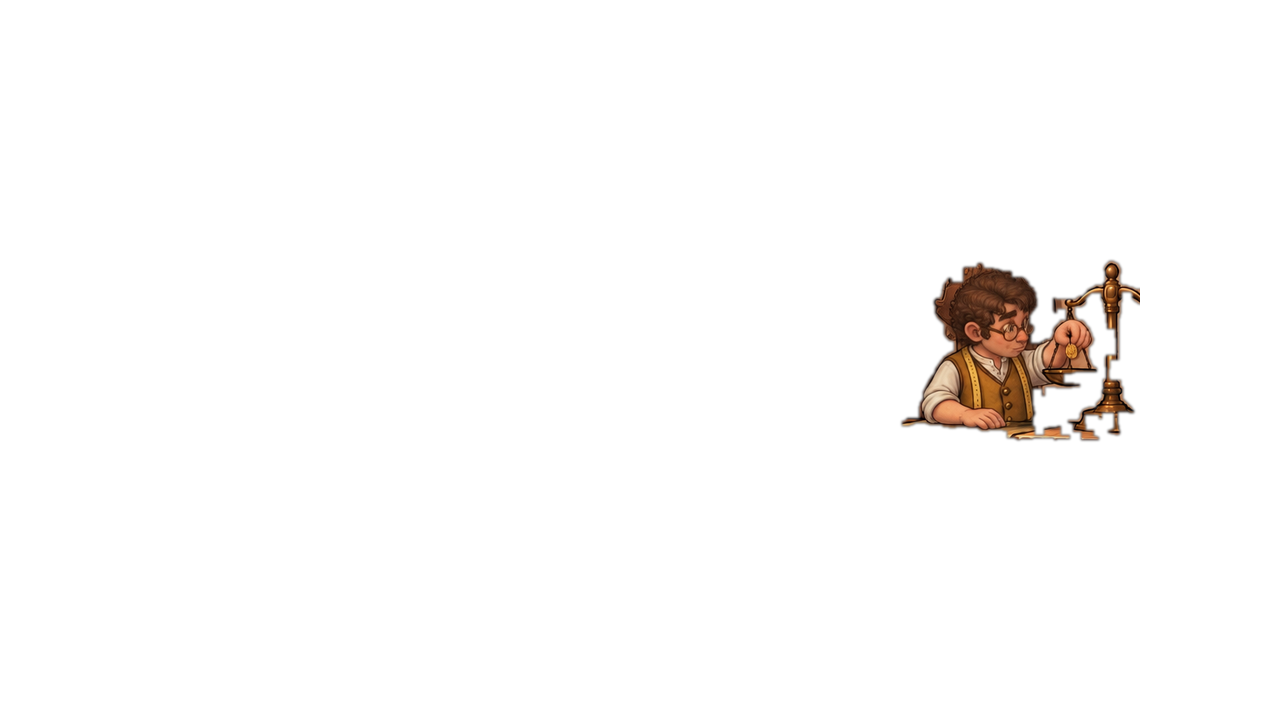
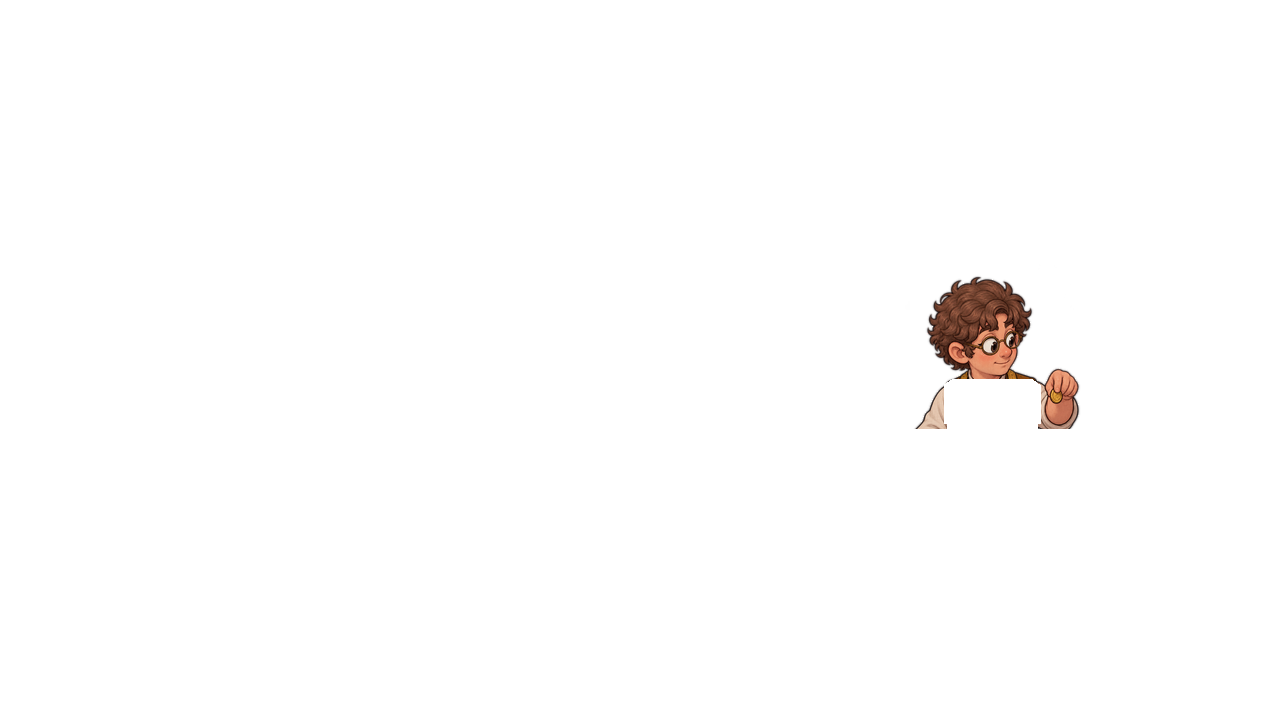
In-scene NPCs: draw with the room first, then redraw large to match
The first in-scene pictures (AI draws the character into the background)
had natural size and lighting but small, mushy faces. Drawing the
character alone at full size (SS style) gave sharp faces but awkward
size and a loud outline. Now both are combined:

1. the scene drawn with the character sets size, pose and lighting
2. that scene is the reference for a large standalone redraw of the
   same character in the same pose (sharp face)
3. art_pipeline scene fits (2) onto the silhouette in (1) by IoU over
   the head and torso, transfers (1)'s colours, adds no outline
4. furniture: cut at the BACK edge of the counter/table top, `show`
   keeps hands resting on it, `hide` keeps objects on it in front

Ruby sits on the hall bench again and Pip on his barrel; the shop Pip
redraw got his spectacles back. Click shapes come from the silhouette.

Claude-Session: https://claude.ai/code/session_01WFgBYsqnPjwxzhWx9BLhU6

Changed region(s): [[0.6875, 0.3667, 0.9062, 0.6111]]

diff --git a/mosshill/tools/art_pipeline.py b/mosshill/tools/art_pipeline.py
@@ -7,7 +7,7 @@
     표정    <이름>_<표정>.png     같은 그림에서 표정만 바꾼 것
     적      <종류>.png            투명 배경
     아이템  items.png             4x4 칸
-    장소 인물 scene_<장소>_<인물>_<busy|look>.png  배경 원본에 인물을 그려 넣은 것 (하던 일 / 앞을 봄)
+    장소 인물 pose_<장소>_<인물>_<busy|look>.png  인물만 단독으로 크게 (하던 일 / 앞을 봄)
 
     python3 tools/art_pipeline.py RAW all        # 전부
     python3 tools/art_pipeline.py RAW bg         # 배경만 (bg, sprite, face, enemy, icon, object, scene)
@@ -274,68 +274,153 @@ def do_object(raw):
             print("object %-14s %-8s rect=%s" % (loc, oid, (box[0], box[1], box[2] - box[0], box[3] - box[1])))
 
 
-## ---------------------------------------------------------------- 장소 안 인물
-## tools/art_scenes.json: {장소: {인물: {"box": [x0,y0,x1,y1], "shape": 다각형, ...}}}
-## RAW/scene_<장소>_<인물>_<busy|look>.png = 배경 원본에 인물을 그려 넣은 그림 (같은 구도) 두 장.
-##   busy: 하던 일을 보고 있음 / look: 카이가 들어와서 앞(카메라)을 봄 — 들어갈 때 busy → look 으로 바뀐다.
-## 원래 배경과 다른 곳 = 인물 → 화면 크기(1280x720) 투명 PNG 로 저장 (위치 정보가 따로 필요 없다).
-## 두 장은 '둘 중 하나라도 다른 곳'(합친 모양)으로 똑같이 오린다 → 겹쳐서 서서히 바꿔도 비치지 않는다.
-## 식탁·계산대 뒤에 선 인물은 앞의 가구가 배경에 그대로 있으니 가려지는 것도 저절로 맞는다.
+## ---------------------------------------------------------------- 장소 안 인물 (두 방식을 합친 것)
+## 1) AI 에게 배경에 인물을 함께 그리게 하면 크기·비율·자세·조명이 자연스럽지만, 인물이 몇십 px 로 작게 그려져
+##    얼굴·인상이 뭉개진다.
+## 2) 원작(SS)처럼 인물만 단독으로 크게 그려 얹으면 얼굴은 또렷하지만, 크기·자세를 따로 정하면 어색하다.
+## → 먼저 1) 로 장면을 그리고, 그 장면을 견본으로 '같은 자세·비율의 인물만' 크게 다시 그린다(2).
+##   그 큰 그림을 1) 의 인물 실루엣에 자동으로 겹쳐 맞추고(배율·위치), 1) 의 인물 색감을 옮겨 얹는다.
+##   외곽선은 두르지 않는다 (원작처럼 굵게 두르면 튀었다).
+##
+## RAW/<장소>.png                    배경 원본 (인물 없음)
+## RAW/scene_<장소>_<인물>_busy.png  1) 배경에 인물을 함께 그린 그림 — 크기·위치·색감의 기준
+## RAW/pose_<장소>_<인물>_busy.png   2) 1) 을 견본으로 인물만 크게 (1024x1536 투명) — 하던 일을 보는 모습
+## RAW/pose_<장소>_<인물>_look.png   2) 에서 눈·입만 바꿔 앞(카메라)을 보는 모습
+## tools/art_scenes.json 의 place:
+##   ref       1) 에서 인물이 있는 곳 다각형 (화면 1280x720 좌표) — 이 안에서 배경과 다른 곳 = 인물 실루엣
+##   cut       이 y 아래는 가구(바·식탁·계산대) 뒤라 안 보임 (없으면 null) — 가구 윗면의 '뒤쪽' 끝.
+##             앞쪽 모서리에서 자르면 몸이 가구 윗면을 덮어 '가구 위에 올려 놓은' 것처럼 보인다
+##   show      cut 아래라도 보이는 곳 다각형 목록 (가구 위에 올린 손·도구) (선택)
+##   hide      앞의 물건에 가려지는 곳 다각형 목록 (선택)
+##   shadow    true 면 발밑 그림자 (바닥에 놓인 전신)
+##   fit_cut   맞출 때 비교를 멈출 y (1) 그림에서 가구에 가려진 선이 cut 과 다를 때, 기본은 cut)
+##   fit_upper 실루엣 위쪽 몇 %로 맞출지 (기본 0.6). 단독 그림의 머리 비율이 1) 과 다르면 줄여서 머리 위주로 맞춘다
+## 결과: scene_<장소>_<인물>_<busy|look>_<day|night>.png (화면 크기, 인물만 불투명)
+##       mask_scene_<장소>_<인물>.png (클릭 모양 = 인물 실루엣)
 SCENE_STATES = ("busy", "look")
+COLOR_AMOUNT = 0.6
 
 
-def largest_blob(m):
-    """참/거짓 배열에서 가장 큰 덩어리만 남긴다 (4방향 연결)"""
-    h, w = m.shape
-    seen = np.zeros_like(m, dtype=bool)
-    best = []
-    for y0, x0 in zip(*np.nonzero(m)):
-        if seen[y0, x0]:
-            continue
-        stack, blob = [(y0, x0)], []
-        seen[y0, x0] = True
-        while stack:
-            y, x = stack.pop()
-            blob.append((y, x))
-            for ny, nx in ((y + 1, x), (y - 1, x), (y, x + 1), (y, x - 1)):
-                if 0 <= ny < h and 0 <= nx < w and m[ny, nx] and not seen[ny, nx]:
-                    seen[ny, nx] = True
-                    stack.append((ny, nx))
-        if len(blob) > len(best):
-            best = blob
-    out = np.zeros_like(m, dtype=bool)
-    if best:
-        ys, xs = zip(*best)
-        out[list(ys), list(xs)] = True
+def screen_of(path):
+    """AI 원본(1536x1024) → 화면(1280x720), 배경과 같은 자르기"""
+    return Image.open(path).convert("RGB").crop((0, 80, 1536, 944)).resize(SCREEN, Image.LANCZOS)
+
+
+def ref_silhouette(bg, sc, poly):
+    """1) 그림에서 인물 실루엣: 다각형(조금 넓힘) 안에서 배경과 확실히 다른 곳"""
+    area = Image.new("L", SCREEN, 0)
+    ImageDraw.Draw(area).polygon([tuple(p) for p in poly], fill=255)
+    area = np.asarray(area.filter(ImageFilter.MaxFilter(9))) > 0
+    d = np.asarray(ImageChops.difference(bg, sc).filter(ImageFilter.GaussianBlur(1.5))).max(axis=2) > 30
+    m = Image.fromarray(((d & area) * 255).astype(np.uint8))
+    m = m.filter(ImageFilter.MinFilter(3)).filter(ImageFilter.MaxFilter(3))     # 잡티
+    m = m.filter(ImageFilter.MaxFilter(7)).filter(ImageFilter.MinFilter(7))     # 틈
+    return np.asarray(m) > 0
+
+
+def fit_to(sil, char, cut, upper=0.6):
+    """큰 인물 그림을 실루엣 sil 에 겹쳐 맞추는 배율 k, 위치 (ox, oy) — 겹치는 비율(IoU)이 가장 큰 값.
+    크기 느낌은 머리·상체가 정하므로 실루엣 위쪽 upper 비율만 비교한다 (팔·소품은 그림마다 조금씩 다르다).
+    cut 아래는 1) 에서 가구에 가려졌으므로 비교하지 않는다."""
+    A = char.getchannel("A")
+    x0, y0, x1, y1 = A.point(lambda v: 255 if v > 16 else 0).getbbox()
+    ys, xs = np.nonzero(sil)
+    sy0, sy1, sx0, sx1 = ys.min(), ys.max(), xs.min(), xs.max()
+    limit = min(cut if cut is not None else SCREEN[1], int(sy0 + (sy1 - sy0) * upper))
+    k0 = (sy1 - sy0) / (y1 - y0) if cut is None else (sx1 - sx0) / (x1 - x0)
+    pad = 120
+    wx0, wy0 = max(0, sx0 - pad), max(0, sy0 - pad)                 # 비교는 실루엣 주변 창 안에서만
+    wx1, wy1 = min(SCREEN[0], sx1 + pad), limit
+    ref_full = sil[wy0:wy1, wx0:wx1]
+    cache = {}
+
+    def iou(k, ox, oy, step):
+        key = (round(k, 5), step)
+        if key not in cache:
+            cache[key] = np.asarray(A.resize((max(1, round(A.width * k / step)), max(1, round(A.height * k / step))))) > 128
+        small = cache[key]
+        ref = ref_full[::step, ::step]
+        canvas = np.zeros(ref.shape, bool)
+        px, py = round((ox - wx0) / step), round((oy - wy0) / step)
+        h, w = small.shape
+        cx0, cy0, cx1, cy1 = max(0, px), max(0, py), min(canvas.shape[1], px + w), min(canvas.shape[0], py + h)
+        if cx1 <= cx0 or cy1 <= cy0:
+            return 0
+        canvas[cy0:cy1, cx0:cx1] = small[cy0 - py:cy1 - py, cx0 - px:cx1 - px]
+        return (canvas & ref).sum() / max(1, (canvas | ref).sum())
+
+    best = (0, k0, 0, 0)
+    for k in np.arange(0.7, 1.31, 0.02) * k0:
+        ox0 = (sx0 + sx1) / 2 - (x0 + x1) / 2 * k
+        oy0 = sy0 - y0 * k
+        for dy in range(-40, 41, 4):
+            for dx in range(-60, 61, 4):
+                v = iou(k, ox0 + dx, oy0 + dy, 2)
+                if v > best[0]:
+                    best = (v, k, ox0 + dx, oy0 + dy)
+    _, kb, oxb, oyb = best
+    for k in (kb * 0.99, kb, kb * 1.01):
+        for dy in range(-3, 4):
+            for dx in range(-3, 4):
+                v = iou(k, oxb + dx, oyb + dy, 1)
+                if v > best[0]:
+                    best = (v, k, oxb + dx, oyb + dy)
+    return best
+
+
+def look_from_busy(busy, look):
+    """look 그림에서 머리 쪽(테두리 상자 위 45%)의 달라진 곳만 busy 에 합친다 → 바뀔 때 몸이 흔들리지 않는다"""
+    x0, y0, x1, y1 = busy.getchannel("A").point(lambda v: 255 if v > 16 else 0).getbbox()
+    head = (x0, y0, x1, y0 + int((y1 - y0) * 0.45))
+    d, s, dx, dy = register(busy, look, (head[0], head[1], head[2], head[3] + 60))
+    look = place(look, s, dx, dy)
+    area = Image.new("L", busy.size, 0)
+    ImageDraw.Draw(area).rectangle(head, fill=255)
+    area = area.filter(ImageFilter.GaussianBlur(10))
+    diff = ImageChops.difference(gray_on_white(busy), gray_on_white(look)).filter(ImageFilter.GaussianBlur(2))
+    mask = ImageChops.multiply(diff.point(lambda v: 255 if v > 14 else 0).filter(ImageFilter.MaxFilter(15)), area)
+    piece = look.copy()
+    piece.putalpha(ImageChops.multiply(mask.filter(ImageFilter.GaussianBlur(5)), look.getchannel("A")))
+    out = busy.copy()
+    out.alpha_composite(piece)
     return out
 
 
-def match_colors(sc, bg, box):
-    """AI 가 인물을 그려 넣으면서 방 전체 색조를 살짝 바꾸는 일이 있다 (바닥에 네모난 경계가 생김).
-    인물 범위(box) 바깥은 원래 배경과 같아야 하므로, 그 부분으로 색 보정식(채널별 a*x+b)을 구해 그림 전체에 적용한다."""
-    a = np.asarray(sc, np.float32)
-    b = np.asarray(bg, np.float32)
-    x0, y0, x1, y1 = box
-    outside = np.ones(a.shape[:2], bool)
-    outside[max(0, y0 - 30):y1 + 30, max(0, x0 - 30):x1 + 30] = False
-    out = a.copy()
+def place_char(char, k, ox, oy, pl, color):
+    """큰 인물 그림 → 화면 크기 레이어 (줄이기, 방 색감, 발밑 그림자, 가려지는 곳 잘라내기)"""
+    x0, y0, x1, y1 = char.getchannel("A").point(lambda v: 255 if v > 16 else 0).getbbox()
+    small = char.resize((round(char.width * k), round(char.height * k)), Image.LANCZOS)
+    layer = Image.new("RGBA", SCREEN, (0, 0, 0, 0))
+    layer.alpha_composite(small, (round(ox), round(oy)))
+    ## 방 색감: 인물 색 분포(평균·표준편차)를 1) 의 인물 색 분포 쪽으로 COLOR_AMOUNT 만큼 옮긴다
+    arr = np.asarray(layer).astype(np.float32)
+    solid = arr[..., 3] > 128
     for c in range(3):
-        gain, offset = np.polyfit(a[..., c][outside], b[..., c][outside], 1)
-        out[..., c] = a[..., c] * gain + offset
-    return Image.fromarray(np.clip(out, 0, 255).astype(np.uint8))
-
-
-def changed_mask(bg, sc, box):
-    """배경과 다른 곳: 색 차이 → 잡티 제거 → 틈 메우기 → 가장 큰 덩어리 → 속 구멍 채우기 (box 크기 L 그림)"""
-    d = np.asarray(ImageChops.difference(bg, sc).filter(ImageFilter.GaussianBlur(1.5))).max(axis=2)
-    m = Image.fromarray(((d > 24) * 255).astype(np.uint8)).crop(box)
-    m = m.filter(ImageFilter.MinFilter(3)).filter(ImageFilter.MaxFilter(3))      # 잡티
-    m = m.filter(ImageFilter.MaxFilter(9)).filter(ImageFilter.MinFilter(9))      # 틈
-    m = Image.fromarray((largest_blob(np.asarray(m) > 0) * 255).astype(np.uint8))
-    pad = Image.new("L", (m.width + 2, m.height + 2), 0)                          # 구멍: 테두리에서 못 닿는 빈칸
-    pad.paste(m, (1, 1))
-    ImageDraw.floodfill(pad, (0, 0), 128)
-    return Image.fromarray(np.where(np.asarray(pad)[1:-1, 1:-1] == 128, 0, 255).astype(np.uint8))
+        src = arr[..., c][solid]
+        moved = (arr[..., c] - src.mean()) * (color[1][c] / (src.std() + 1e-6)) + color[0][c]
+        arr[..., c] = np.clip(arr[..., c] * (1 - COLOR_AMOUNT) + moved * COLOR_AMOUNT, 0, 255)
+    layer = Image.fromarray(arr.astype(np.uint8), "RGBA")
+    layer.putalpha(layer.getchannel("A").filter(ImageFilter.GaussianBlur(0.6)))   # 경계만 살짝 부드럽게
+    ## 가구 뒤: cut 아래와 hide 다각형 안은 투명
+    keep = Image.new("L", SCREEN, 255)
+    dr = ImageDraw.Draw(keep)
+    if pl.get("cut") is not None:
+        dr.rectangle((0, pl["cut"], SCREEN[0], SCREEN[1]), fill=0)
+    for poly in pl.get("show", []):                 # cut 아래라도 보이는 곳 (식탁 위에 올린 손 등)
+        dr.polygon([tuple(p) for p in poly], fill=255)
+    for poly in pl.get("hide", []):
+        dr.polygon([tuple(p) for p in poly], fill=0)
+    layer.putalpha(ImageChops.multiply(layer.getchannel("A"), keep))
+    full = Image.new("RGBA", SCREEN, (0, 0, 0, 0))
+    if pl.get("shadow"):
+        fx, fy, w = ox + (x0 + x1) / 2 * k, oy + y1 * k, (x1 - x0) * k * 0.75
+        sh = Image.new("L", SCREEN, 0)
+        ImageDraw.Draw(sh).ellipse((fx - w / 2, fy - 9, fx + w / 2, fy + 7), fill=110)
+        shadow = Image.new("RGBA", SCREEN, (20, 12, 6, 0))
+        shadow.putalpha(sh.filter(ImageFilter.GaussianBlur(6)))
+        full.alpha_composite(shadow)
+    full.alpha_composite(layer)
+    return full
 
 
 def do_scene(raw):
@@ -346,34 +431,31 @@ def do_scene(raw):
     for loc, chars in spec.items():
         if loc.startswith("_"):
             continue
-        bg = Image.open(os.path.join(raw, loc + ".png")).convert("RGB").crop((0, 80, 1536, 944)).resize(SCREEN, Image.LANCZOS)
         for who, s in chars.items():
-            box = tuple(s["box"])
-            scenes = {}
-            union = None
-            for st in SCENE_STATES:
-                sc = Image.open(os.path.join(raw, "scene_%s_%s_%s.png" % (loc, who, st))).convert("RGB")
-                scenes[st] = match_colors(sc.crop((0, 80, 1536, 944)).resize(SCREEN, Image.LANCZOS), bg, box)
-                m = changed_mask(bg, scenes[st], box)
-                union = m if union is None else ImageChops.lighter(union, m)
-            alpha = Image.new("L", SCREEN, 0)
-            alpha.paste(union.filter(ImageFilter.GaussianBlur(1.2)), box[:2])
-            for st, sc in scenes.items():
-                for tod, img in (("day", sc), ("night", night_filter(sc))):
-                    piece = Image.new("RGBA", SCREEN, (0, 0, 0, 0))
-                    piece.paste(img, (0, 0), alpha)
-                    piece.putalpha(alpha)
+            pose = {st: Image.open(os.path.join(raw, "pose_%s_%s_%s.png" % (loc, who, st))).convert("RGBA")
+                    for st in SCENE_STATES}
+            pose["look"] = look_from_busy(pose["busy"], pose["look"])
+            pl = s["place"]
+            bg = screen_of(os.path.join(raw, loc + ".png"))
+            ref = screen_of(os.path.join(raw, "scene_%s_%s_busy.png" % (loc, who)))
+            sil = ref_silhouette(bg, ref, pl["ref"])
+            fit, k, ox, oy = fit_to(sil, pose["busy"], pl.get("fit_cut", pl.get("cut")), pl.get("fit_upper", 0.6))
+            px = np.asarray(ref).astype(np.float32)[sil]
+            color = (px.mean(axis=0), px.std(axis=0))
+            layers = {st: place_char(pose[st], k, ox, oy, pl, color) for st in SCENE_STATES}
+            for st, layer in layers.items():
+                rgb = layer.convert("RGB")
+                for tod, img in (("day", rgb), ("night", night_filter(rgb))):
+                    piece = img.convert("RGBA")
+                    piece.putalpha(layer.getchannel("A"))
                     piece.save(os.path.join(out, "scene_%s_%s_%s_%s.png" % (loc, who, st, tod)), optimize=True)
-            ## 클릭·하이라이트 모양: 인물 윤곽 다각형 (화면 크기 1비트 PNG)
-            shape = Image.new("P", SCREEN, 0)
+            ## 클릭 모양 = 두 자세 실루엣을 합친 것 (1비트)
+            sil = ImageChops.lighter(layers["busy"].getchannel("A"), layers["look"].getchannel("A"))
+            shape = sil.point(lambda v: 1 if v > 150 else 0).convert("P")      # 그림자(옅음)는 빼고 인물만
             shape.putpalette([0, 0, 0, 255, 255, 255])
-            ImageDraw.Draw(shape).polygon([tuple(p) for p in s["shape"]], fill=1)
             shape.save(os.path.join(out, "mask_scene_%s_%s.png" % (loc, who)), transparency=0, optimize=True)
-            x0, y0, x1, y1 = box
-            outside = np.asarray(ImageChops.difference(scenes["busy"], scenes["look"]).convert("L")).astype(np.float32)
-            outside[y0:y1, x0:x1] = np.nan
-            print("scene %-14s %-7s 인물 영역=%s  두 장면 상자 밖 차이=%.1f (작을수록 구도가 그대로)" % (
-                loc, who, alpha.getbbox(), np.nanmean(outside)))
+            print("scene %-14s %-7s 겹침(IoU)=%.2f 배율=%.3f 화면 위치=%s" % (
+                loc, who, fit, k, ImageChops.lighter(layers["busy"].getchannel("A"), layers["look"].getchannel("A")).getbbox()))
 
 
 STEPS = {"bg": do_bg, "sprite": do_sprite, "face": do_face, "enemy": do_enemy,

diff --git a/mosshill/tools/art_recipes.md b/mosshill/tools/art_recipes.md
@@ -36,8 +36,9 @@
 | 인물 얼굴 다시 디자인 | 그 인물 몸 | (2) 루비 = 화풍 (3) 그레고르 = 나이 표현 (나이 든 인물일 때) |
 | 표정 | 그 인물 몸 | (2) 루비 = 화풍 — 얼굴 크기·위치는 1번 그대로 |
 | 배경 | 길드 홀 | (2) 루비 = 화풍 |
-| 장면에 인물 넣기 | 그 장소 배경 | (2) 그 인물 몸 = 얼굴·옷 (3) 루비 = 화풍 |
-| 장면 인물 시선만 바꾸기 | 그 장면 그림 | (2) 그 인물 몸 = 얼굴 (3) 루비 = 화풍 |
+| 장소 안 인물 1) 장면 | 그 장소 배경 | (2) 그 인물 몸 = 얼굴·옷 (3) 카이 = 그림체 — 배경에 인물을 함께 그림 (크기·자세 기준) |
+| 장소 안 인물 2) '하던 일' | 1) 장면 | (2) 그 인물 몸 (3) 카이 — **1) 의 인물만** 같은 자세·비율로 크게, 배경·가구 없이 (투명) |
+| 장소 안 인물 '앞을 봄' | 2) 그림 | (2) 그 인물 몸 — 눈·입만 바꾼다 |
 | 적·아이템 | 루비 | (2) 배경 1장 = 색감 |
 
 ## 3. 프롬프트 틀 (영어로, 빠짐없이)
@@ -73,6 +74,10 @@
 | 성숙한 마르타 후보가 또 루비처럼 나옴 | 화풍 견본으로 루비를 넣음 → '매력적인 여성'을 그리면 루비 얼굴로 감 | 루비를 빼고 카이·그레고르·마르타 A 를 견본으로, 중년 얼굴 특징(긴 얼굴, 광대, 코 옆 선, 작은 눈)을 구체적으로 |
 | 루비 눈 감기에서 먼 쪽 눈이 반투명하게 남음 | 얼굴 영역 경계에 눈이 걸림 | 얼굴 영역을 넉넉히 + `face` 단계가 만드는 점검용 그림(`원본폴더/_review_faces.png`)을 꼭 눈으로 본다 |
 | 성숙한 마르타가 '친근한 아줌마' 같고 매혹적이지 않음 | 나이 특징만 지정하고 분위기(표정·자세·옷차림)는 지정 안 함 | 나른한 눈매·기울인 고개·은근한 미소·붉은 입술, 머리를 만지는 손, 어깨 드러난 블라우스·조인 코르셋 (노출 없이) |
+| 장소 안 인물의 얼굴·인상이 뭉개짐 | 배경 그림 안에 인물을 그려 넣게 함 → 인물이 몇십 px 로 작게 그려지고 다시 줄이며 더 뭉개짐 | 인물만 단독으로 크게 그린다 |
+| 단독 인물을 얹었더니 크기·비율이 어색하고 굵은 외곽선이 튐 | 자세·크기를 따로 정함, 원작 흉내로 외곽선을 두름 | 1) 장면을 견본으로 같은 자세의 인물만 다시 그리고, 1) 의 실루엣에 자동으로 겹쳐 맞춘다. 외곽선은 뺀다 |
+| 식탁 뒤에 선 인물이 '식탁 위에 올려 놓은' 것처럼 보임 | 가구 윗면의 앞쪽 모서리에서 잘라 몸이 윗면과 그 위 물건을 덮음 | 윗면 '뒤쪽' 끝에서 자르고(cut), 가구 위에 올린 손만 보이게(show), 가구 위 물건은 인물 앞에(hide) |
+| 다시 그린 인물에서 소품(핍의 안경)이 빠짐 | 장면 견본을 따라 그리며 디자인 일부를 놓침 | 결과를 디자인과 나란히 놓고 확인, 빠진 것만 추가로 그려 넣기 |
 | 장면 인물이 고개를 들 때 머리가 10~20% 커지고 인상이 바뀜 | 머리를 통째로 다시 그리게 함 | 머리는 그대로, **눈과 입만** 바꾼다 |
 | 장면 인물이 빤히 쳐다봐서 무서움 | "카메라를 정면으로 보라" | 편안한 눈꺼풀, 살짝 치켜뜬 눈길, 작은 미소 |
 | 장면 인물 눈 색이 바뀜 | 인물 견본 없이 얼굴을 다시 그림 | 인물 몸을 2번 견본으로 넣는다 |
@@ -84,10 +89,12 @@
 |---|---|
 | 마르타 몸 (= 콘셉트 01 레나) | `img_mwk4pph0U68HMxxT` |
 | 마르타 표정 기쁨 / 화남 / 놀람 / 말하기 | `img_mwk5fs1nykP7cvOp` / `img_mwk5gla19Zqx0u4w` / `img_mwk5gvn65H1AW9uM` / `img_mwk5h46bAJqzY5hq` |
-| 부엌 루비 하던 일 / 앞을 봄 | `img_mwk5hezcIrN7DtBx` / `img_mwk5jczt53x58vs3` |
-| 길드 홀 루비 하던 일 / 앞을 봄 | `img_mwk5hr8xDOZxF9XX` / `img_mwk5jmu6Kyg4DqKt` |
-| 선술집 마르타 하던 일 / 앞을 봄 | `img_mwk5j435FcIsnrxc` / `img_mwk5km91c4vFLr9N` |
-| 잡화점 핍 하던 일 / 앞을 봄 | `img_mwk33ey2wlWuSMdW` / `img_mwk5jw0haA2K3O6t` |
-| 광장 핍 하던 일 / 앞을 봄 | `img_mwk33ndtudBcVSua` / `img_mwk5k5pahNQbqgsf` |
+| 장소 인물 1) 장면 — 부엌 루비 / 길드 홀 루비 / 선술집 마르타 | `img_mwk5hezcIrN7DtBx` / `img_mwk5hr8xDOZxF9XX` / `img_mwk5j435FcIsnrxc` |
+| 장소 인물 1) 장면 — 잡화점 핍 / 광장 핍 | `img_mwk33ey2wlWuSMdW` / `img_mwk33ndtudBcVSua` |
+| 장소 인물 2) 하던 일 / 앞을 봄 — 부엌 루비 | `img_mwk6nw4m1wRam3g7` / `img_mwk6yj3uQXCRL2am` |
+| 길드 홀 루비 | `img_mwk6o5dzKhYphXZU` / `img_mwk6yuuuSZxYZcY3` |
+| 선술집 마르타 | `img_mwk6oedcaIUMwko8` / `img_mwk6z55aHqkz4brz` |
+| 잡화점 핍 (안경 추가본) | `img_mwk78bq8hfBDZSQl` / `img_mwk78mczfQ4x80FA` |
+| 광장 핍 (술통 포함) | `img_mwk6owfupJ7J4qRB` / `img_mwk6zn45hSa75y0G` |
 
 이미지 서버 제한: **하루 100회, 분당 6회**. 여러 장은 6장씩 나눠 보낸다.

diff --git a/mosshill/README.md b/mosshill/README.md
@@ -76,7 +76,7 @@ python3 tools/balance_sim.py 5000   # 밸런스 시뮬레이터 → 결과는 do
 | `images/enemies/` | `enemy_<종류>.png` (바닥 정렬) |
 | `images/items/` | `icon_<아이템>.png` (96×96) |
 | `images/objects/` | 클릭할 물건 모양 `mask_<장소>_<물건>.png` |
-| `images/scenes/` | 장소 안 인물 `scene_<장소>_<인물>_<day\|night>.png` + 클릭 윤곽 `mask_scene_<장소>_<인물>.png` |
+| `images/scenes/` | 장소 안 인물 `scene_<장소>_<인물>_<busy\|look>_<day\|night>.png` + 클릭 모양 `mask_scene_<장소>_<인물>.png` |
 
 원본(서버에서 받은 큰 PNG)은 저장소에 넣지 않는다. 원본 폴더를 정해 두고 가공만 다시 할 수 있다:
 
@@ -89,13 +89,12 @@ python3 tools/art_pipeline.py <원본폴더> object    # 클릭 모양만 (tools
   `face` 단계가 원본과 위치·크기를 맞춘 뒤 이마~턱 상자 안에서 **달라진 곳(눈썹·눈·입, 원래 눈썹 자리 포함)만**
   오려내서 경계선이 보이지 않는다. 몸+조각이 표정 그림과 덩어리로 다르면(눈썹이 두 개 남는 등) `확인 필요` 를 찍는다.
 - 핍은 전신으로 작게 그려져서 `frame` 으로 1.3배 키우고 허벅지에서 자른다 (머리는 다른 인물보다 낮게 → 키 작은 하플링).
-- 장소 안 인물 (원작처럼 대화용 큰 그림 대신 그 장소에서 뭔가 하는 모습): 배경 원본에 인물을 그려 넣게 한 뒤
-  `scene` 단계가 원래 배경과 다른 곳만 오려낸다. 식탁·계산대 뒤에 선 인물은 가려지는 것도 저절로 맞는다.
-  자세·**얼굴 각도·시선**은 `tools/art_scenes.json` 에 적어 둔 규칙대로 — 손님을 맞는 사람(마르타, 상점의 핍)은
-  들어온 플레이어(카메라)를 보고, 자기 일에 빠진 사람(요리·검 손질하는 루비)은 손에 든 것을 본다.
-  클릭과 마우스 올림 하이라이트는 인물 윤곽 다각형(`shape`)만 쓴다.
-- 클릭할 물건: 마우스를 올리면 게임이 지금 배경(낮이든 밤이든)을 마스크 모양으로 잘라 밝게 그린다.
-  물건을 옮기면 `world.rpy` 의 rect 도 맞춰야 한다 — 다르면 자동 검사 `m0` 가 실패로 잡는다.
+- 장소 안 인물 (원작처럼 대화용 큰 그림 대신 그 장소에서 뭔가 하는 모습) — **두 방식을 합친 것**:
+  1) AI 에게 배경에 인물을 함께 그리게 한다 → 크기·비율·자세·조명이 자연스럽지만 얼굴이 작게 뭉개진다.
+  2) 1) 을 견본으로 넣고 **같은 자세·비율의 인물만** 크게 다시 그린다 → 얼굴이 또렷하다 (원작처럼 인물만 따로 있는 그림).
+  `scene` 단계가 2) 를 1) 의 인물 실루엣에 자동으로 겹쳐 맞추고(배율·위치), 1) 의 색감을 옮기고, 가구 뒤는 잘라낸다.
+  외곽선은 두르지 않는다. 장면별 값은 `tools/art_scenes.json` 의 `place`. 클릭 모양은 인물 실루엣에서 자동으로 만든다.
+  하던 일(`busy`)과 눈만 들어 앞을 보는 모습(`look`) 두 장 — 장소에 들어가면 busy 에서 look 으로 바뀐다.
 - 밤(저녁·밤)에는 인물에도 푸른 색조를 입힌다 (`motions.rpy` 의 `light_matrix`).
 - 마우스를 올리면 색을 몇 배로 곱해 밝힌다 (밝기를 더하면 밤 그림이 뿌옇게 뜸, `location.rpy` 의 `hover_matrix`).
 
